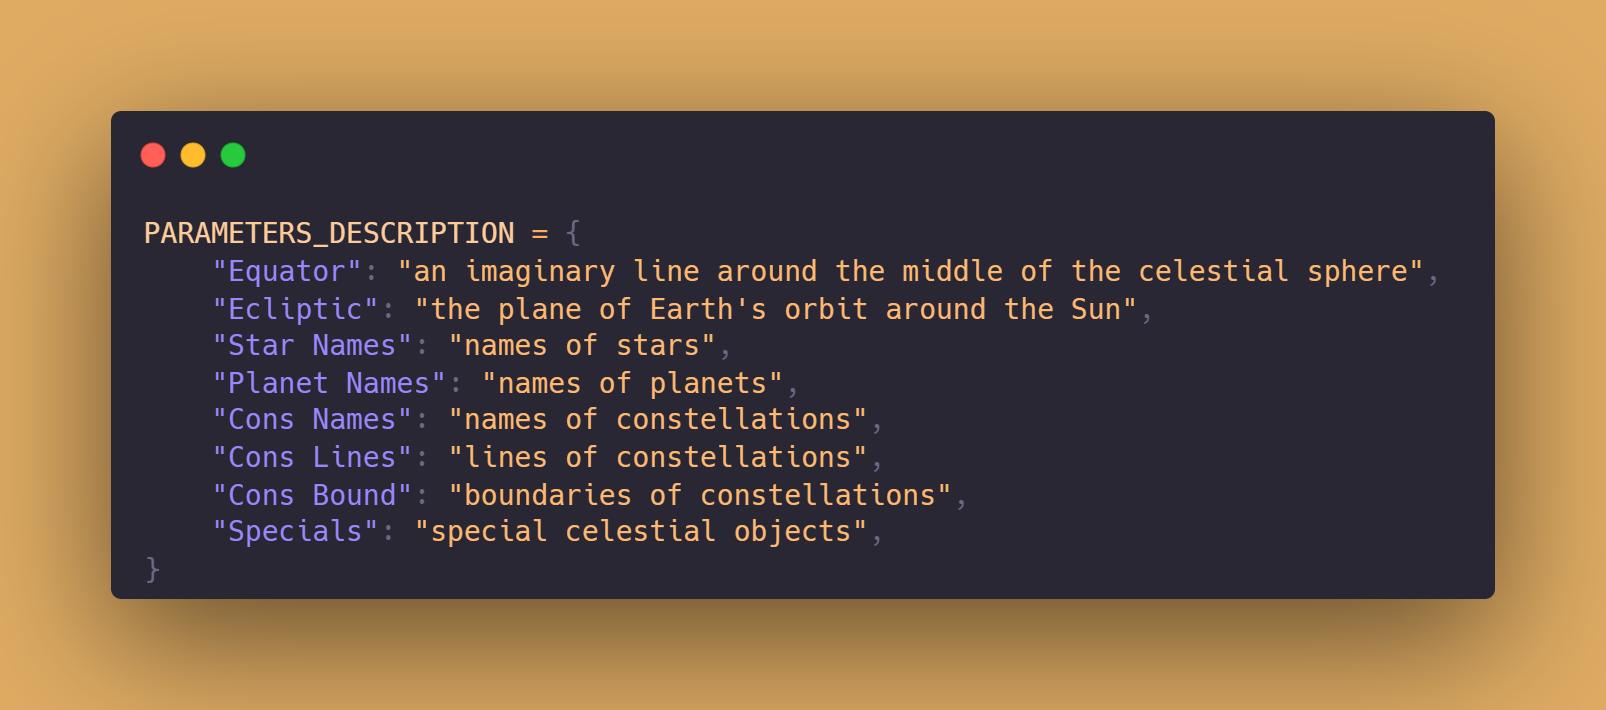
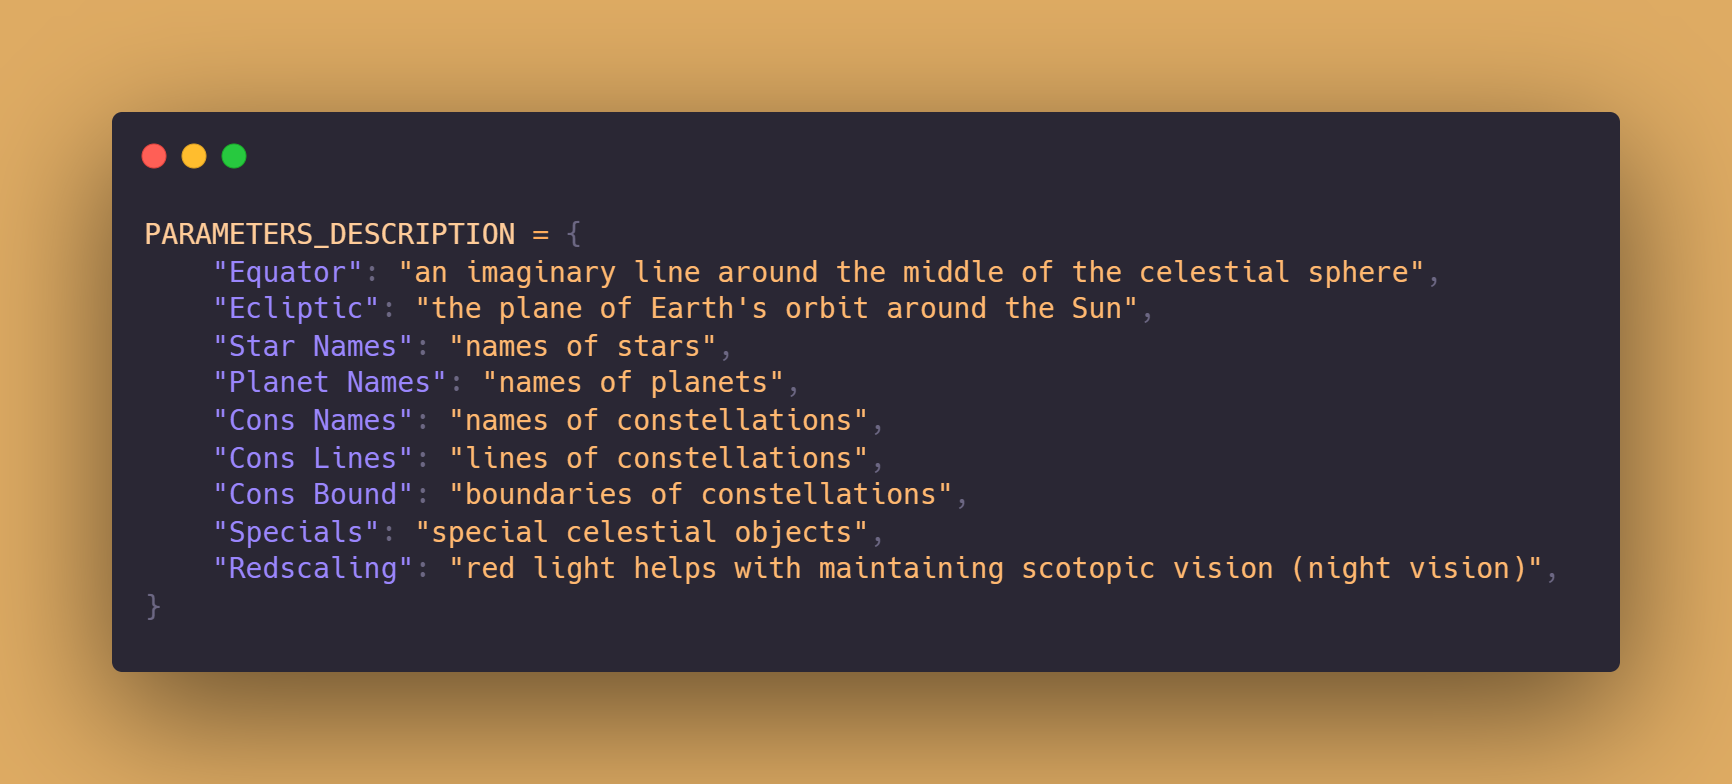
New redscale toggle

Changed region(s): [[0.0623, 0.1239, 0.934, 0.8676]]

diff --git a/astro_pointer/features/starmap.py b/astro_pointer/features/starmap.py
@@ -45,9 +45,14 @@ def populate_preference_buttons(user_preferences: dict) -> InlineKeyboardMarkup:
             ))
 
     buttons.append([InlineKeyboardButton(
+        text = f"Redscaling {'✔' if user_preferences[Starmap.REDSCALE_DB_KEY] else '❌'}",
+        callback_data = Starmap.REDSCALE_CALLBACK_DATA,
+    )])
+
+    buttons.append([InlineKeyboardButton(
         text = "Reset to default ↺",
-        callback_data = Starmap.RESET_TO_DEFAULT_CALLBACK_DATA)
-    ])
+        callback_data = Starmap.RESET_TO_DEFAULT_CALLBACK_DATA
+    )])
 
     buttons.append([InlineKeyboardButton(
         text = "Generate Star Map →",
@@ -59,6 +64,12 @@ def populate_preference_buttons(user_preferences: dict) -> InlineKeyboardMarkup:
 
 async def preference_setting_message(update: Update, context: CallbackContext) -> None:
     """Send a message with the current preferences of the user."""
+
+    args = context.args
+
+    if "skip" in args or "-s" in args:
+        await send_star_map(update, context)
+        return
 
     user_id = update.effective_user.id
 
@@ -140,13 +151,13 @@ async def send_star_map(update: Update, context: CallbackContext) -> None:
 
         current_date_time = get_current_date_time_string(utc_offset)
 
-        star_map_bytes = fetch_star_map(lat, longi, address, utc_offset, star_map_param)
+        star_map_bytes, file_extension = fetch_star_map(lat, longi, address, utc_offset, star_map_param)
 
         # update.message.reply_document(document = fetch_target) # pdf
         await context.bot.send_document(
             chat_id = chat_id,
             document = star_map_bytes,
-            filename = f"Star_Map_{current_date_time.replace(' ', '_').replace(':', '_')}.png",
+            filename = f"Star_Map_{current_date_time.replace(' ', '_').replace(':', '_')}.{file_extension}",
             caption = f"Enjoy the stunning stars! Be considerate and leave no trace while stargazing! \n ({current_date_time})",
             reply_markup = Starmap.REFRESH_BUTTON
         )
@@ -180,12 +191,12 @@ async def update_star_map(update: Update, context: CallbackContext) -> str:
 
         current_date_time = get_current_date_time_string(utc_offset)
 
-        star_map_bytes = fetch_star_map(lat, longi, address, utc_offset, star_map_param)
+        star_map_bytes, file_extension = fetch_star_map(lat, longi, address, utc_offset, star_map_param)
 
         await update.callback_query.message.edit_media(
             media = InputMediaDocument(
                 media = star_map_bytes,
-                filename = f"Star_Map_{current_date_time.replace(' ', '_').replace(':', '_')}.png",
+                filename = f"Star_Map_{current_date_time.replace(' ', '_').replace(':', '_')}.{file_extension}",
                 caption = f"Enjoy the stunning stars! Be considerate and leave no trace while stargazing! \n ({current_date_time})"
             ),
             reply_markup = Starmap.REFRESH_BUTTON
@@ -209,6 +220,7 @@ def fetch_star_map(latitude: float, longitude: float, address: str, utc_offset: 
 
     Returns:
         bytes: bytes object of a plane rectangular sets of pixels
+        str: file extension of the image
     """
 
     params_inject = {
@@ -219,15 +231,21 @@ def fetch_star_map(latitude: float, longitude: float, address: str, utc_offset: 
         "utcOffset": utc_offset * 1000  # convert to milliseconds
     }
 
-    response = requests.get(Starmap.STAR_MAP_BASE_URL, params=params_inject|preferences)    # | to merge two dictionaries
-    with fitz.open(stream=response.content) as doc:
-        page = doc.load_page(0)  # load the first page
-        pix = page.get_pixmap(
-            dpi = 200,
-            colorspace = fitz.csRGB,
-            annots = False,
-            clip = fitz.IRect(1, 1, 600, 650)
-        )
-        pix.tint_with(black=-129010, white=0) # no idea on how these values work, just do trial and error
+    redscale = preferences.pop(Starmap.REDSCALE_DB_KEY, False)
 
-    return pix.tobytes()
+    response = requests.get(Starmap.STAR_MAP_BASE_URL, params=params_inject|preferences)    # | to merge two dictionaries
+
+    if redscale:
+        with fitz.open(stream=response.content) as doc:
+            page = doc.load_page(0)  # load the first page
+            pix = page.get_pixmap(
+                dpi = 200,
+                colorspace = fitz.csRGB,
+                annots = False,
+                clip = fitz.IRect(1, 1, 600, 650)
+            )
+            pix.tint_with(black=-129010, white=0) # no idea on how these values work, just do trial and error
+
+        return pix.tobytes(), "png"
+
+    return response.content, "pdf"

diff --git a/astro_pointer/constants.py b/astro_pointer/constants.py
@@ -25,6 +25,7 @@ class Starmap:
     REFRESH_BUTTON = InlineKeyboardMarkup([
         [InlineKeyboardButton("↻ Refresh", callback_data=REFRESH_CALLBACK_DATA)]
     ])
+    REDSCALE_DB_KEY = "useRedscale"
     DEFAULT_PREFERENCES = {
         "showEquator": False,
         "showEcliptic": True,
@@ -34,11 +35,13 @@ class Starmap:
         "showConsLines": True,
         "showConsBoundaries": False,
         "showSpecials": False,
-        "use24hClock": True         # NEVER change this to False, 24-hr gang
+        "use24hClock": True,         # NEVER change this to False, 24-hr gang
+        REDSCALE_DB_KEY: False,      # will be deleted when passed in the request
     }
-    PREFERENCE_CALLBACK_DATA = "PREF_STAR_MAP"      # in the form of "PREF_STAR_MAP_PARAM_NAME"
+    PREFERENCE_CALLBACK_DATA = "PREF_STAR_MAP"      # in the form of "PREF_STAR_MAP_<PARAM_NAME>"
     GENERATE_CALLBACK_DATA = "GENERATE_STAR_MAP"
     RESET_TO_DEFAULT_CALLBACK_DATA = "RESET_TO_DEFAULT_STAR_MAP"
+    REDSCALE_CALLBACK_DATA = "PREF_STAR_MAP_REDSCALE"
     NAME_TO_CALLBACK_DATA = {
         "Equator": "PREF_STAR_MAP_EQUATOR",
         "Ecliptic": "PREF_STAR_MAP_ECLIPTIC",
@@ -59,6 +62,7 @@ PARAMETERS_DESCRIPTION = {
     "Cons Lines": "lines of constellations",
     "Cons Bound": "boundaries of constellations",
     "Specials": "special celestial objects",
+    "Redscaling": "red light helps with maintaining scotopic vision (night vision)",
 }
     '''
     CALLBACK_DATA_TO_DB_KEYS = {
@@ -70,6 +74,7 @@ PARAMETERS_DESCRIPTION = {
         "PREF_STAR_MAP_CONS_LINES": "showConsLines",
         "PREF_STAR_MAP_CONS_BOUNDARIES": "showConsBoundaries",
         "PREF_STAR_MAP_SPECIALS": "showSpecials",
+        REDSCALE_CALLBACK_DATA: REDSCALE_DB_KEY,
     }
 
 

diff --git a/scripts/new_redscale_pref.py b/scripts/new_redscale_pref.py
@@ -1,0 +1,29 @@
+import os
+import firebase_admin
+from firebase_admin import credentials, db
+from dotenv import load_dotenv
+
+
+def main():
+    load_dotenv()
+    GOOGLE_APPLICATION_CREDENTIALS = os.getenv("GOOGLE_APPLICATION_CREDENTIALS")
+    DATABASE_URL = os.getenv("DATABASE_URL")
+
+    cred = credentials.Certificate(GOOGLE_APPLICATION_CREDENTIALS)
+    firebase_admin.initialize_app(
+        credential = cred,
+        options = {
+            "databaseURL" : DATABASE_URL
+        }
+    )
+
+    ref = db.reference("/Users")
+    users = ref.get()
+
+    for user_id in users:
+        ref = db.reference(f"/Users/{user_id}/starmap_preferences")
+        ref.update({"useRedscale": False})
+
+
+if __name__ == "__main__":
+    main()

diff --git a/README.md b/README.md
@@ -53,7 +53,8 @@ WIP
                 "showConsLines": true,
                 "showConsBoundaries": false,
                 "showSpecials": false,
-                "use24hClock": true
+                "use24hClock": true,
+                "useRedscale": false
             },
         },
         // ...
